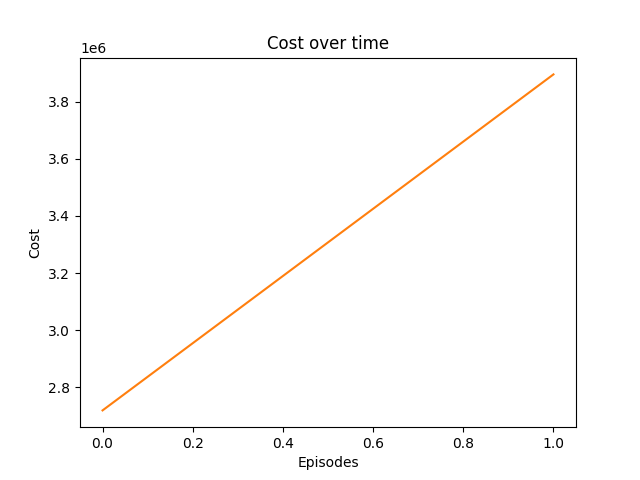
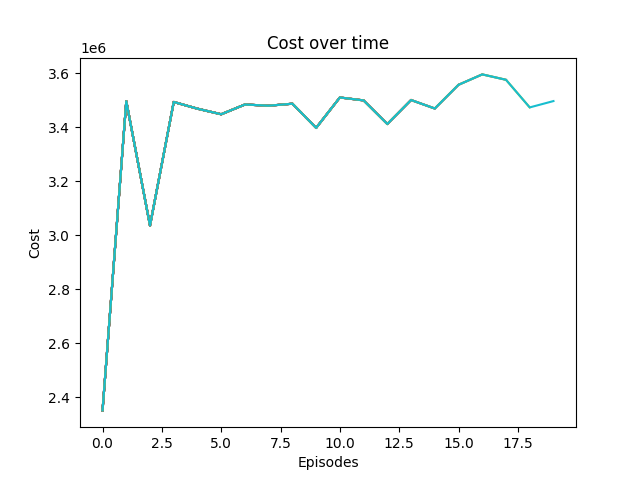
added different VM sizes, first-fit progress

diff --git a/src/fat_tree.py b/src/fat_tree.py
@@ -1,3 +1,4 @@
+import heapq
 import torch
 import numpy as np
 import random
@@ -9,6 +10,7 @@ from .agg_switch import AggregateSwitch
 from .edge_switch import EdgeSwitch
 from .phys_machine import PhysicalMachine
 from .vm_pair import VmPair
+from .sized_vm_pair import SizedVmPair
 from .ac_migrate_pytorch import Actor, Critic
 
 
@@ -286,8 +288,108 @@ class FatTree:
             rand_rate = random.randint(self.traffic_low, self.traffic_high)
             self.vm_pairs[i] = VmPair(first, second, rand_rate)
 
+    def create_sized_vm_pairs(self, lower_bound, upper_bound):
+        # Using random placement for VMs on physical machines
+        for i in range(self.vm_pair_count):
+            flag = True
+            while flag:
+                first = random.randint(self.first_pm, self.last_pm)
+                second = random.randint(self.first_pm, self.last_pm)
+                if first == second:
+                    continue
+                first_pm = self.tree[first]
+                second_pm = self.tree[second]
+                if first_pm.capacity_left <= 0 or second_pm.capacity_left <= 0:
+                    continue
+                flag = False
+
+            first_pm.add_vm()
+            second_pm.add_vm()
+            rand_rate = random.randint(self.traffic_low, self.traffic_high)
+            #create a random vm size between lower_bound and upper_bound
+            vm_size = random.randint(lower_bound, upper_bound)
+            self.vm_pairs[i] = SizedVmPair(first, second, rand_rate, vm_size)
+
+
+    def create_sized_pairs_ff_place(self, lower_bound, upper_bound):
+        #placing VM pairs based on PAL algorithm
+        #first call functions that create the VM pairs
+        #they are also placed randomly but, they are correctly placed in this function
+        self.create_sized_vm_pairs(lower_bound, upper_bound)
+        pm_slots = []
+        for i in range(self.pm_count):
+            tempICost = self.distance(self.vnfs[0], self.first_pm + i, True)
+            tempECost = self.distance(self.vnfs[self.vnf_count - 1], self.first_pm + i, True)
+            slot = {
+                "pm_id": self.first_pm + i,
+                "i_cost": tempICost,
+                "e_cost": tempECost,
+                "powered_on": False,
+                "open_slots": self.pm_capacity,
+            }
+            pm_slots.append(slot)
+
+        sorted_by_icost = sorted(pm_slots, key=lambda slot: slot["i_cost"])
+        sorted_by_ecost = sorted(pm_slots, key=lambda slot: slot["e_cost"])
+
+        powered_on_pms_i = []
+        powered_on_pms_e = []
+
+        #for slot in pm_slots:
+            #if slot["powered_on"]:
+                #heapq.heappush(self.powered_on_iheap, (slot["i_cost"], slot))
+                #heapq.heappush(self.powered_on_eheap, (slot["e_cost"], slot))
+        sorted_pairs = sorted(self.vm_pairs, key=lambda vm_pair: vm_pair.traffic_rate, reverse=True)
+        for i in range(self.vm_pair_count):
+            found_i_pm = False
+            for idx, (cost, slot) in enumerate(powered_on_pms_i):
+                if slot["open_slots"] >= sorted_pairs[i].vm_size:
+                    sorted_pairs[i].first_vm_location = slot["pm_id"]
+                    slot["open_slots"] -= sorted_pairs[i].vm_size
+                    found_i_pm = True
+                    if slot["open_slots"] == 0:
+                        powered_on_pms_i.pop(idx)
+                        heapq.heapify(powered_on_pms_i)
+                    break
+            if not found_i_pm:
+                slot = sorted_by_icost.pop(0)
+                slot["powered_on"] = True
+                slot["open_slots"] -= sorted_pairs[i].vm_size
+                sorted_pairs[i].first_vm_location = slot["pm_id"]
+                if slot["open_slots"] > 0:
+                    heapq.heappush(powered_on_pms_i, (slot["i_cost"], slot))
+
+            found_e_pm = False
+            for idx, (cost, slot) in enumerate(powered_on_pms_e):
+                if slot["open_slots"] >= sorted_pairs[i].vm_size:
+                    sorted_pairs[i].second_vm_location = slot["pm_id"]
+                    slot["open_slots"] -= sorted_pairs[i].vm_size
+                    found_e_pm = True
+                    if slot["open_slots"] == 0:
+                        powered_on_pms_e.pop(idx)
+                        heapq.heapify(powered_on_pms_e)
+                    break
+            if not found_e_pm:
+                slot = sorted_by_ecost.pop(0)
+                slot["powered_on"] = True
+                slot["open_slots"] -= sorted_pairs[i].vm_size
+                sorted_pairs[i].second_vm_location = slot["pm_id"]
+                if slot["open_slots"] > 0:
+                    heapq.heappush(powered_on_pms_e, (slot["e_cost"], slot))
+                    
+        #print out total cost of configuration
+        total_cost = 0
+        for i in range(self.vm_pair_count):
+            total_cost += self.calc_pair_cost(sorted_pairs[i])
+        print(f"Total cost of configuration for PAL placement: {total_cost}")
+
+            
+
+
     def create_pairs_pal_place(self):
         #placing VM pairs based on PAL algorithm
+        #first call functions that create the VM pairs
+        #they are also placed randomly but, they are correctly placed in this function
         self.create_vm_pairs()
         resource_slots =[]
         #there is a total of pm_count * pm_capacity slots available
@@ -352,6 +454,12 @@ class FatTree:
         for i in range(self.vm_pair_count):
             sorted_pairs[i].first_vm_location = i_opt[i]["pm_id"]
             sorted_pairs[i].second_vm_location = e_opt[i]["pm_id"]
+        
+        #print out total cost of configuration
+        total_cost = 0
+        for i in range(self.vm_pair_count):
+            total_cost += self.calc_pair_cost(sorted_pairs[i])
+        print(f"Total cost of configuration for PAL placement: {total_cost}")
 
 
 

diff --git a/src/app.py b/src/app.py
@@ -11,8 +11,9 @@ class App:
         tree = FatTree(8, 1000, 3, 3, 40)
         tree.set_traffic_range(0, 1000)
         tree.create_pairs_pal_place()
+        tree.create_sized_pairs_pal_place(lower_bound=1, upper_bound=10)
         #tree.cs2_migration()
-        tree.ac_migration()
+        #tree.ac_migration()
         #state = tree.get_state()
         #print(state)
 

diff --git a/src/sized_vm_pair.py b/src/sized_vm_pair.py
@@ -1,0 +1,5 @@
+class SizedVmPair(VmPair):
+    def __init__(self, first_vm_location, second_vm_location, traffic_rate, vm_size):
+        super().__init__(first_vm_location, second_vm_location, traffic_rate)
+        self.vm_size = vm_size  
+        
